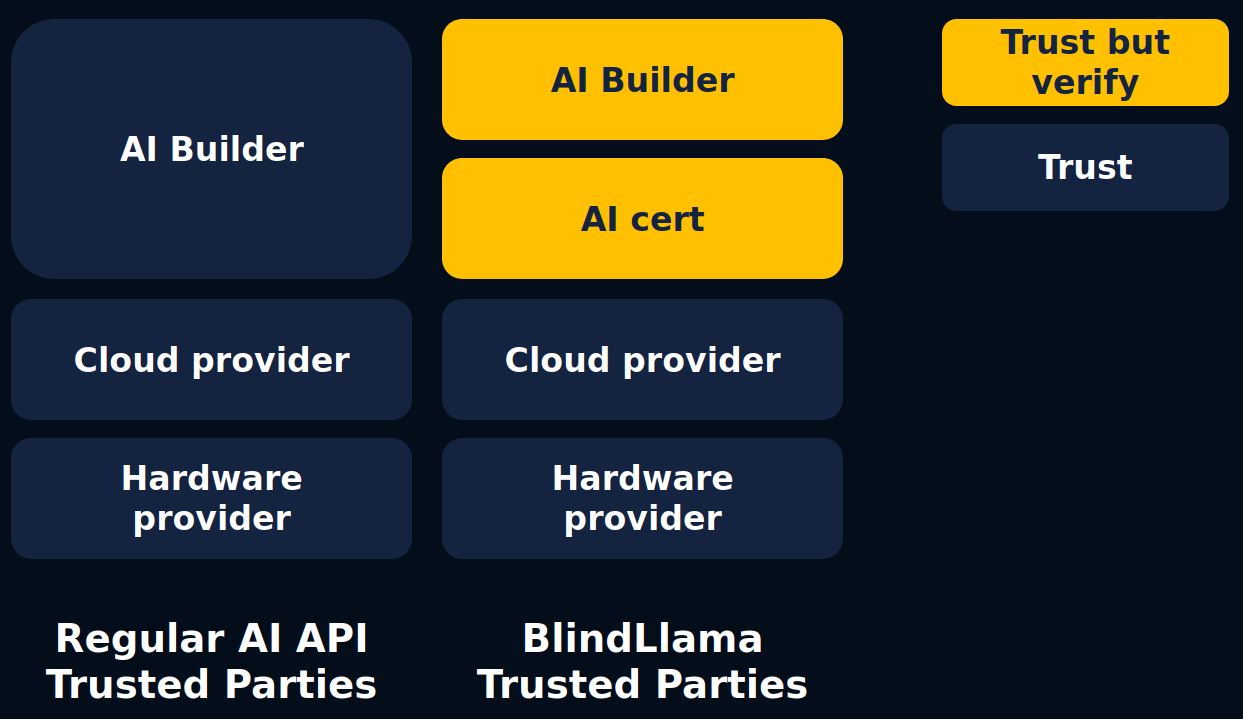
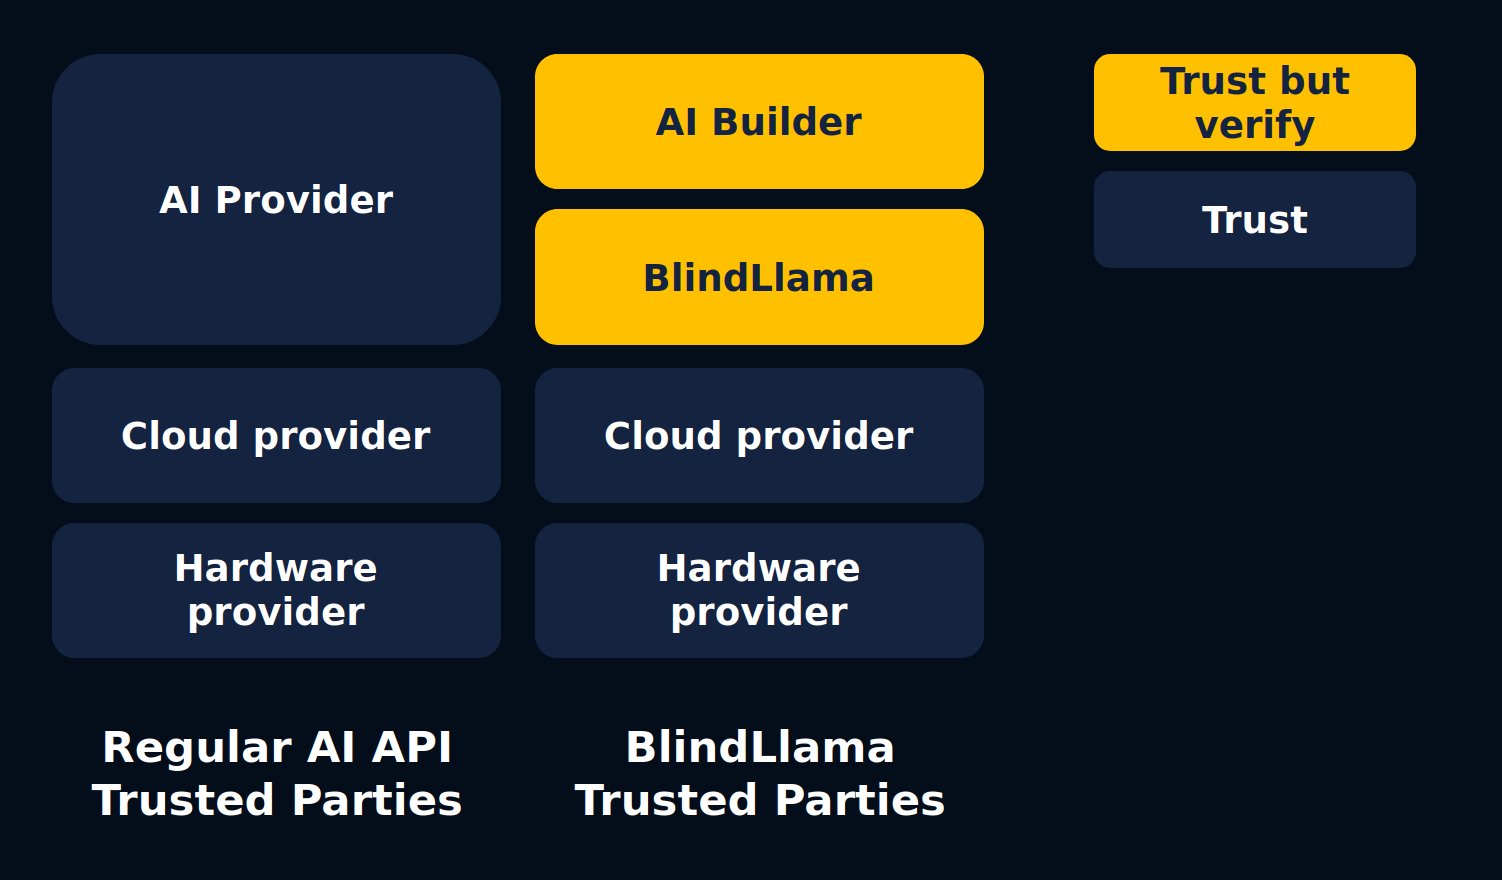
docs: updates to TPM and some figures

diff --git a/docs/stylesheets/extra.css b/docs/stylesheets/extra.css
@@ -126,6 +126,8 @@
 
 /******* max width for large images *******/
 img[alt=tcb-light] { max-width: 250px; display: block; margin-left: auto; margin-right: auto;}
+img[alt=PCR-alloc-dark] { max-width: 400px; display: block; margin-left: auto !important; margin-right: auto !important;}
+img[alt=PCR-alloc-light] { max-width: 400px; display: block; margin-left: auto; margin-right: auto;}
 img[alt=tcb-dark] { max-width: 250px; display: block; margin-left: auto !important; margin-right: auto !important;}
 img[alt=trust-model-light] { max-width: 600px; display: block; margin-left: auto; margin-right: auto;}
 img[alt=trust-model-dark] { max-width: 600px; display: block; margin-left: auto; margin-right: auto;}
@@ -133,5 +135,3 @@ img[alt=matching-light] { max-width: 650px; display: block ; margin-left: auto !
 img[alt=matching-dark] { max-width: 650px; display: block; margin-left: auto !important; margin-right: auto !important;}
 img[alt=certificates-light] { max-width: 650px; display: block; margin-left: auto  !important; margin-right: auto !important;}
 img[alt=certificates-dark] { max-width: 650px; display: block; margin-left: auto  !important; margin-right: auto  !important;}
-
-

diff --git a/docs/docs/concepts/TPMs.md b/docs/docs/concepts/TPMs.md
@@ -7,30 +7,40 @@ TPMs are secure hardware components that are commonly used to securely store art
 
 Platform integrity with TPMs is achieved by storing measurements of the whole software stack of a machine, from the UEFI to the OS, which can then be verified (**attested**). We can also use TPMs to measure and attest additional arbitrary elements such as customizable items.
 
-In the case of BlindLlama, we additionally attest:
+### How does TPM attestation work in BlindLlama?
+
+**Server-side:**
+
+1. When the TPM-enabled machine used for server deployment is booted, various default measurements are taken, such as hashes of firmware, boot loaders, and critical system files. These hashes are stored in the TPM's PCRs (Platform Configuration Registers), a set of registers, or location in memory, within the TPM itself.
+
+The BlindLlama server then additionally stores hashes of the following elements in PCRs:
 
 + The **BlindLlama** inference server code
-+ The **weights** we serve
-+ The **ssl certificate** used for secure communications
++ The **model weights** we serve
++ The **TLS certificate** used for secure communications
+
+Let's take a look at the PCR values used by BlindLlama and their associated PCR number:
+
+![PCR-alloc-dark](../../assets/PCR-alloc-dark.png#only-dark)
+![PCR-alloc-light](../../assets/PCR-alloc-light.png#only-light)
+
+2. The BlindLlama server then requests a signed quote from the TPM which contains these PCR values and is signed by the TPM's Attestation Key (AK), which is derived from a tamper-proof TPM Endorsement Key (EK), and thus cannot be falsified by a third party.
+
+3. The BlindLlama server verifies that this quote is signed by the authentic and expected TPM. If, and only if, this verification is successful, the server will proceed to use the information in this signed quote to create a cryptographic proof file containing hashes from any relevant PCRs.
 
 ![proof-dark](../../assets/blindllama-proof-dark.png#only-dark)
 ![proof-light](../../assets/blindllama-proof-light.png#only-light)
 
-### How does TPM attestation work in BlindLlama?
+**Client-side:**
 
-When a TPM-enabled system is booted, various measurements are taken, such as hashes of firmware, boot loaders, and critical system files. These measurements are then stored in the TPM's PCRs (Platform Configuration Registers), a set of registers within the TPM. 
+When an end user queries our BlindLlama API, before a secure connection can be established the client will receive and verify the server's cryptographic proof file.
 
-> PCRs can be considered a log of the system state, capturing the integrity of various components during the boot process and other critical stages.
+If any of the hashes in the certificate created when deploying our server do not match with the the expected values hardcoded into our API client- an error will be raised and no user data will be sent to the server!
 
-We can then request a signed quote from the TPM which contains these PCR values and is signed by the TPM's Attestation Key (AK), which is derived from a tamper-proof TPM Endorsement Key (EK), and thus cannot be falsified by a third party. 
+**[new figure!] LAURA TODO**
 
-The BlindLlama server uses this signed quote to create a cryptographic proof file for each of our APIs, which can then be verified at any time using the `verify` method available in our Python SDK.
+By using TPMs to verify that our code and stack have not been modified or tampered with, we are able to provide robust assurances about code integrity to end users.
 
-If any of the hashes in the certificate created when deploying our server do not match with the the expected values hardcoded into our API client- an error will be raised and the end user will know this is not an authentic API built with the expected codebase on the expected stack.
-
-![verification-light](../../assets/verification-cropped.png)
-
-By enabling users to verify that our code and stack have not been modified or tampered with, we are able to provide robust assurances about code integrity to end users.
 <div style="text-align: left;">
   <a href="../TCB" class="btn">Back</a>
 </div>

diff --git a/docs/docs/concepts/TCB.md b/docs/docs/concepts/TCB.md
@@ -6,14 +6,16 @@ Before talking about the actual technology that allows us to provide code integr
 TCB refers to the different technical components you need to trust, from the hardware all the way up to the software, through the hypervisor, OS, and so on.
 We refer to the page on TCB and parties that are trusted in regular AI SaaS and Zero-trust AI SaaS.
 
-For instance, as an external user of an AI SaaS application, here are the different components we need to trust:
+Let's take a look at the TCB of a typical AI API vs BlindLLama's TCB.
 
-![tcb-dark](../../assets/TCB-dark.png#only-dark)
-![tcb-light](../../assets/TCB-light.png#only-light)
+![tcb-dark](../../assets/tcb-dark.png#only-dark)
+![tcb-light](../../assets/tcb-light.png#only-light)
 
-The Cloud provider typically buys the hardware and serves VMs through a hypervisor to AI providers, who then are in charge of choosing the OS and providing the AI inference server. This is simplified as there are many more components that are part of the stack we could have omitted, such as bootloader, kernel, etc.
+With a typical AI API, the Cloud provider buys the **hardware** and **provides a VM with a particular OS** through a **hypervisor** to **the AI API provider**, who deploys **their server code and model** on the VM. 
 
-Now that we have introduced the concept of TCB, we will see in the next page how TPMs can provide non-forgeable measurements of the TCB to attest that a specific code is loaded.
+With BlindLlama, we still have to trust the **Cloud provider's hardware & hypervisor** but we deploy an auditable OS and server code which are attested using secure hardware, TPMS. We will see in [the next section](./TPMs.md) how TPMs can provide non-forgeable measurements of the TCB to attest that a specific code is loaded.
+
+> Note, this is simplified as there are many more components that are part of the stack we could have included, such as the bootloader, kernel, etc.
 
 <div style="text-align: left;">
   <a href="../hardened-environments" class="btn">Back</a>

diff --git a/docs/docs/concepts/attested-tls.md b/docs/docs/concepts/attested-tls.md
@@ -32,7 +32,7 @@ Let's take a look at how this works step-by-step:
 
 **Client-side**:
 
-1. When the end user connects to the BlindLlama server, the client will receive the following from the server:
+When the end user connects to the BlindLlama server, the client will receive the following from the server:
   + The server's TLS certificate from the connection
   + The cryptographic proof file from the server
 
@@ -40,14 +40,12 @@ Let's take a look at how this works step-by-step:
 ![certificates-light](../../assets/certificates-light.png#only-light)
 ![certificates-dark](../../assets/certificates-dark.png#only-dark)
 
-2. This proof file which contains the hash of the server's TLS certificate is automatically verified against the certificate of the current connection. 
-3. If the TLS certificate hash in the proof file does not match a hash of the TLS certificate of the server in the current connection, the connection will fail and an error is raised.
+This proof file contains a hash of the server's TLS certificate, which is automatically verified against the certificate of the current connection. 
 
+If the TLS certificate hash in the proof file does not match a hash of the TLS certificate of the server in the current connection, the connection will fail and an error is raised.
 
 ![matching-light](../../assets/matching-light.png#only-light)
 ![matching-dark](../../assets/matching-dark.png#only-dark)
-
-
 
 <div style="text-align: left;">
   <a href="../TPMs" class="btn">Back</a>
